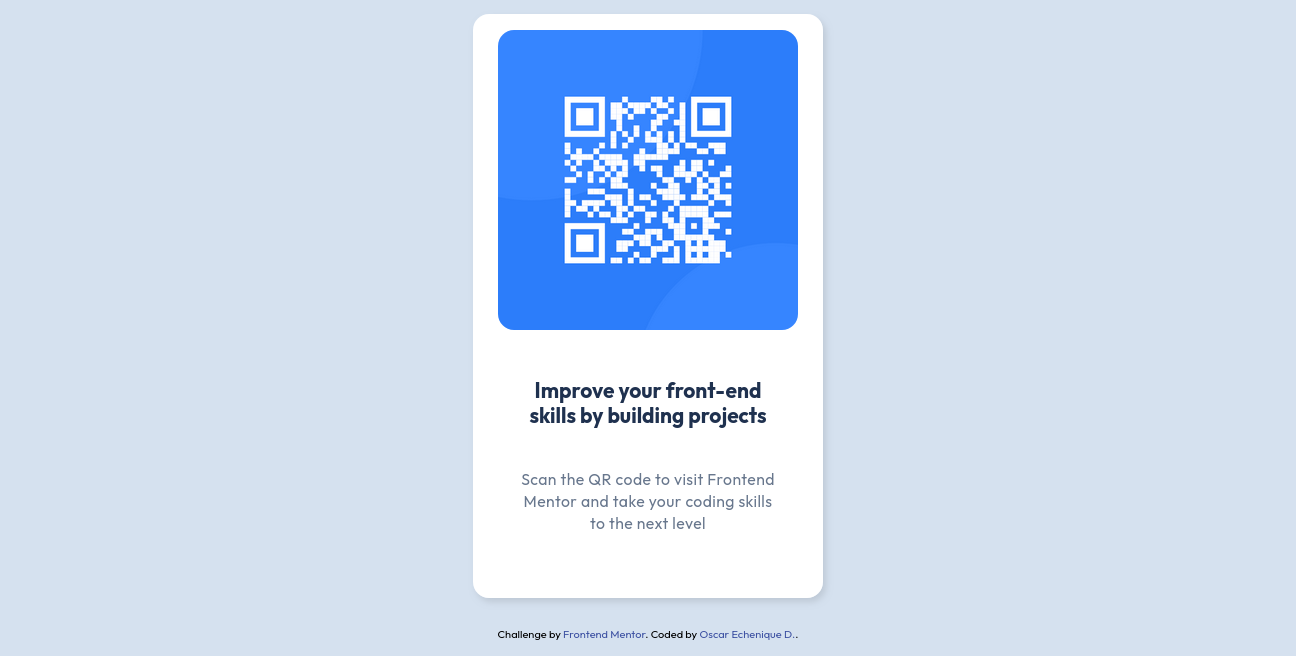
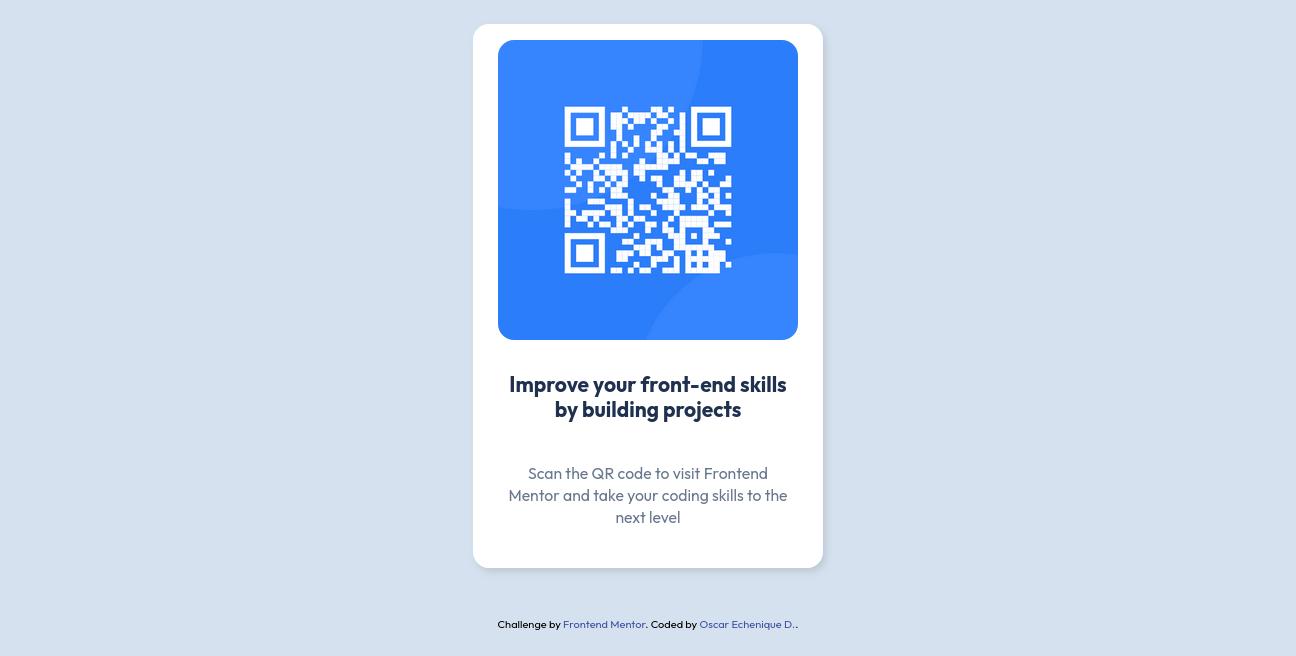
Actualizaciòn del codigo basado en recomendaciones de FrontedMentor

diff --git a/index.html b/index.html
@@ -25,38 +25,39 @@
     <!--Etiqueta de titulo de la pagina-->
     <title>Frontend Mentor | QR code component</title>
   </head>
-  <body class="main">
-    <!-- Se agrega  una section como container de la card, ademas se agregan tres article para la imagen y el titulo y contenido-->
-    <section class="card-container">
-      <article class="cardImageQR"></article>
-      <img
-        src="./assets/image-qr-code.png"
-        alt="QR code image"
-        height="300px"
-        width="300px"
-        loading="lazy"
-        decoding="async"
-        referrerpolicy="no-referrer"
-        crossorigin="anonymous"
-      />
-
-      <article class="card-title">
-      <article class="card-title">
-        <h3>Improve your front-end skills by building projects</h3>
-      </article>
-      <article class="card-content">
-        <p>
-          Scan the QR code to visit Frontend Mentor and take your coding skills
-          to the next level
-        </p>
-      </article>
-    </section>
-    <!-- Se agrega un div para mostrar los créditos de creación-->
-    <div class="attribution">
-      Challenge by
-      <a href="https://www.frontendmentor.io?ref=challenge" target="_blank"
-        >Frontend Mentor</a
-      >. Coded by <a href="#">Oscar Echenique D.</a>.
-    </div>
+  <body>
+    <main class="main">
+      <!-- Se agrega  una section como container de la card, ademas se agregan tres article para la imagen y el titulo y contenido-->
+      <section class="card-container">
+        <article class="cardImageQR">
+          <img
+            src="./assets/image-qr-code.png"
+            alt="QR code image"
+            height="300"
+            width="300"
+            loading="lazy"
+            decoding="async"
+            referrerpolicy="no-referrer"
+            crossorigin="anonymous"
+          />
+        </article>
+        <article class="card-title">
+          <h1>Improve your front-end skills by building projects</h1>
+        </article>
+        <article class="card-content">
+          <p>
+            Scan the QR code to visit Frontend Mentor and take your coding
+            skills to the next level
+          </p>
+        </article>
+      </section>
+      <!-- Se agrega un div para mostrar los créditos de creación-->
+      <section class="attribution">
+        Challenge by
+        <a href="https://www.frontendmentor.io?ref=challenge" target="_blank"
+          >Frontend Mentor</a
+        >. Coded by <a href="#">Oscar Echenique D.</a>.
+      </section>
+    </main>
   </body>
 </html>

diff --git a/style.css b/style.css
@@ -4,7 +4,7 @@
 html {
   box-sizing: border-box;
   scroll-behavior: smooth;
-  font-size: 16px; /* base para rems */
+  font-size: 1rem; /* base para rems */
 }
 
 /* 2. Heredan el modelo de caja todos los elementos */
@@ -21,7 +21,7 @@ body {
   font-family: "Outfit", sans-serif;
   font-weight: 400;
   line-height: 1.5;
-  background-color: #fff;
+  background-color: var(--color-white);
   color: #000;
   min-height: 100vh;
   -webkit-font-smoothing: antialiased;
@@ -76,10 +76,10 @@ table {
   --color-slate-500: #68778d;
   --color-slate-300: #d5e1ef;
   --color-white: #ffffff;
-  --spacing-500: 40px;
-  --spacing-300: 24px;
-  --spacing-200: 16px;
-  --spacing-100: 8px;
+  --spacing-500: 2.5rem;
+  --spacing-300: 1.5rem;
+  --spacing-200: 1rem;
+  --spacing-100: 0.5rem;
 }
 
 /* 10.main*/
@@ -95,9 +95,9 @@ table {
 .card-container {
   background-color: var(--color-white);
   width: 80%;
+  max-width: 21.875rem;
+  min-width: 15.625rem;
   height: auto;
-  max-width: 350px;
-  min-width: 250px;
 
   display: flex;
   flex-direction: column;
@@ -107,9 +107,8 @@ table {
   border-radius: 1rem;
   padding: var(--spacing-200);
 
-  box-shadow: 3px 4px 6px rgba(0, 0, 0, 0.1);
+  box-shadow: 0.2rem 0.25rem 0.375rem rgba(0, 0, 0, 0.1);
 }
-
 .card-container img {
   margin-bottom: var(--spacing-200);
   border-radius: 1rem;
@@ -122,12 +121,12 @@ table {
   padding: var(--spacing-200);
 }
 
-.card-title h3 {
+.card-title h1 {
   font-size: clamp(1rem, 1vw + 0.5rem, 1.375rem);
   text-align: center;
   line-height: 120%;
   letter-spacing: 0;
-  font-family: "Outfit";
+  font-family: "Outfit", sans-serif;
   font-weight: 700;
   color: var(--color-slate-900);
 }
@@ -143,15 +142,15 @@ table {
   font-size: clamp(0.875rem, 0.6vw + 0.5rem, 1rem);
   text-align: center;
   line-height: 140%;
-  letter-spacing: 0.4px;
-  font-family: "Outfit";
+  letter-spacing: 0.025;
+  font-family: "Outfit", sans-serif;
   font-weight: 400;
   color: var(--color-slate-500);
 }
 
 /* . Credits */
 .attribution {
-  font-size: 11px;
+  font-size: 0.688rem;
   text-align: center;
 }
 .attribution a {
